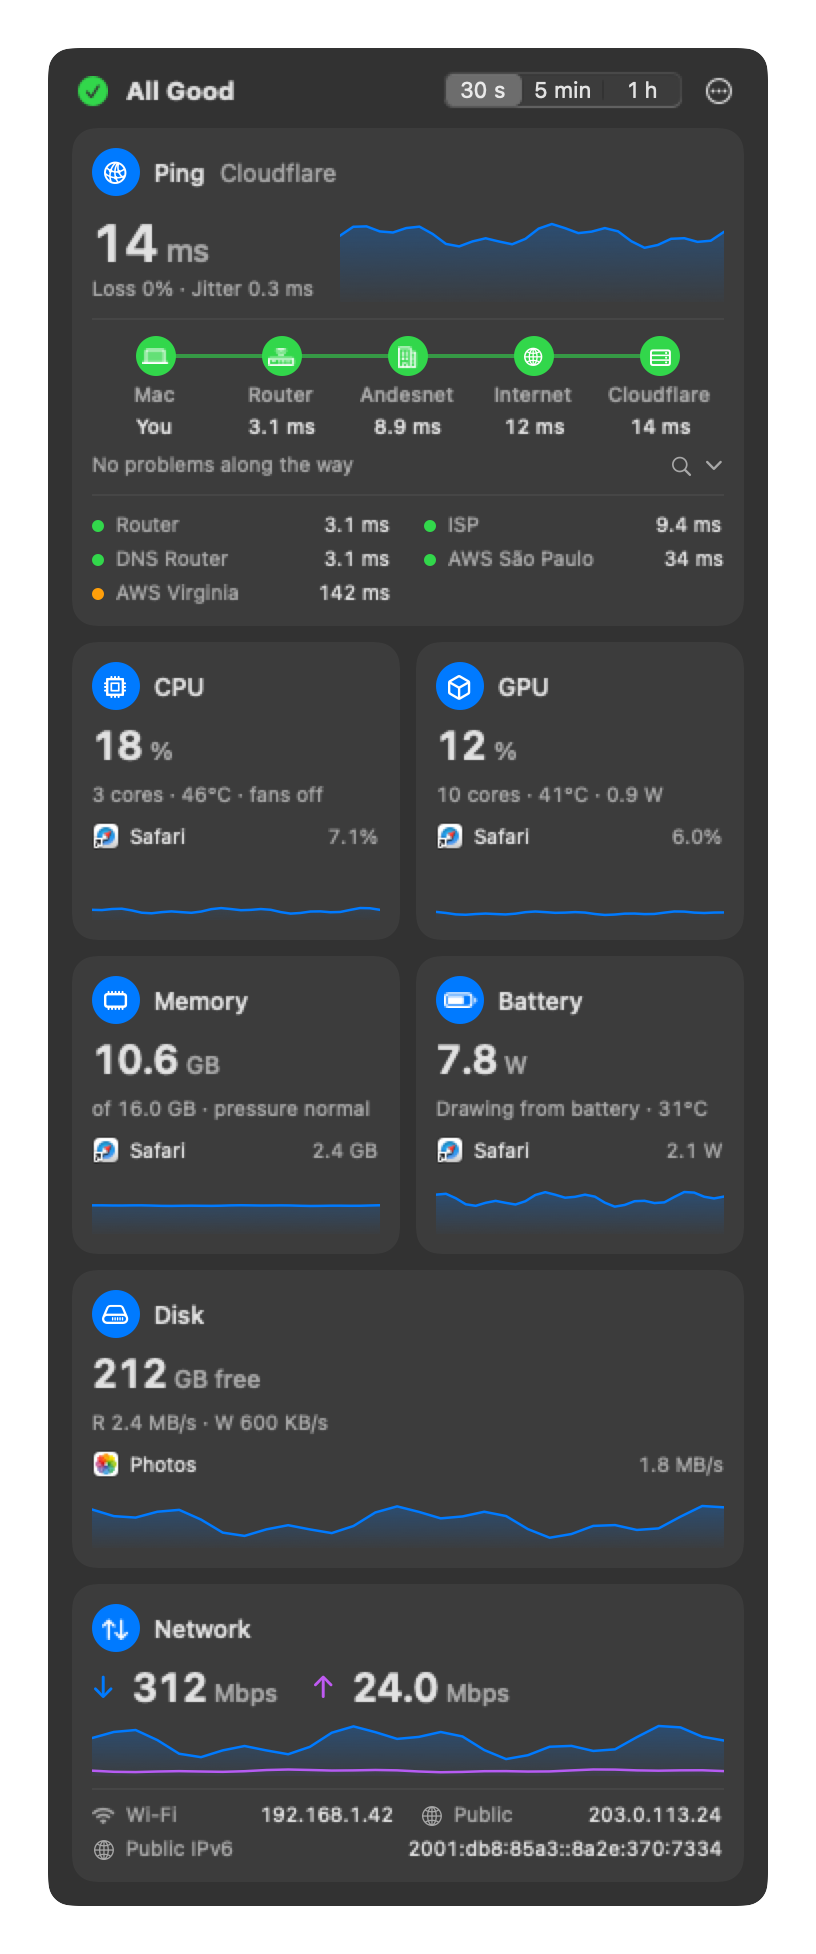
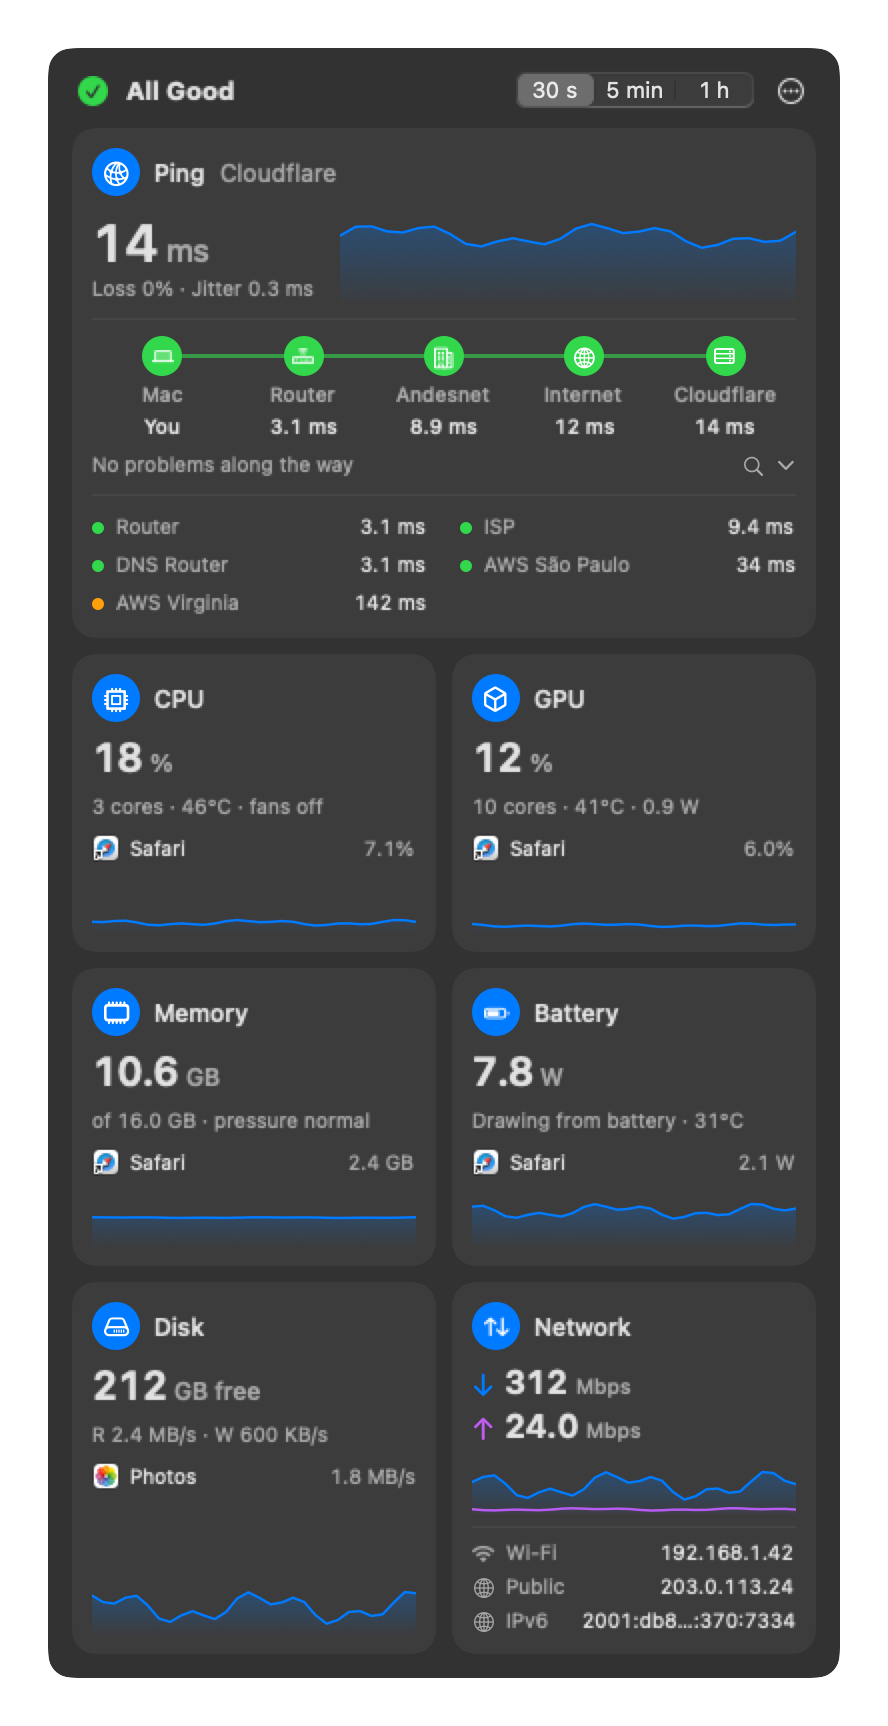
feat(popover): keep cards in place on issues and make Disk and Network half width (#58)
Cards that need attention only change color instead of moving into a "Needs Attention" group. Only Ping spans the full width; Disk and Network are half-width cards. SF Symbols in the colored circles are exactly centered. The popover is 10% wider (396 pt).

Claude-Session: https://claude.ai/code/session_01Fu5rURYvgo8L1b4zeYRJRQ

diff --git a/Sources/MonitorUI/PopoverView.swift b/Sources/MonitorUI/PopoverView.swift
@@ -2,7 +2,7 @@ import MonitorCore
 import SwiftUI
 
 /// The popover content: a header, then metric modules in the style of Control Center.
-/// Modules that need attention move to the top, in their own group.
+/// Cards keep their place when something needs attention: only their color changes, so nothing jumps around.
 public struct PopoverView: View {
     @ObservedObject private var model: PopoverModel
     @ObservedObject private var settings: AppSettings
@@ -16,18 +16,11 @@ public struct PopoverView: View {
 
     public var body: some View {
         let modules = Module.visible(in: snap, widgets: settings.widgets)
-        let problems = modules.filter { $0.level(in: snap) != .ok }
-            .sorted { $0.level(in: snap) > $1.level(in: snap) }
-        let healthy = modules.filter { $0.level(in: snap) == .ok }
+        let problemCount = modules.filter { $0.level(in: snap) != .ok }.count
 
         VStack(alignment: .leading, spacing: 10) {
-            header(problemCount: problems.count)
-            if !problems.isEmpty {
-                GroupLabel("Needs Attention")
-                grid(problems)
-                if !healthy.isEmpty { GroupLabel("Everything Else") }
-            }
-            grid(healthy)
+            header(problemCount: problemCount)
+            grid(modules)
         }
         .padding(PopoverLayout.padding)
         .frame(width: PopoverLayout.width)
@@ -89,6 +82,10 @@ public struct PopoverView: View {
             ForEach(rows.indices, id: \.self) { i in
                 HStack(alignment: .top, spacing: PopoverLayout.spacing) {
                     ForEach(rows[i], id: \.self) { module($0) }
+                    // A half-width card left alone in the last row keeps its width.
+                    if rows[i].count == 1, !rows[i][0].isWide {
+                        Color.clear.frame(maxWidth: .infinity, maxHeight: 0)
+                    }
                 }
                 .fixedSize(horizontal: false, vertical: true)
             }
@@ -251,8 +248,8 @@ public enum Module: String, CaseIterable, Codable, Sendable {
         self == .cpu ? max(snap.level(.cpu), snap.level(.thermal)) : snap.level(kind)
     }
 
-    /// Full-width modules take a row of their own.
-    var isWide: Bool { self == .ping || self == .network }
+    /// Full-width modules take a row of their own. Only Ping needs the room, for its route and extra hosts.
+    var isWide: Bool { self == .ping }
 
     /// The cards to show, in the person's order. Power appears only on Macs with a battery, GPU only on
     /// Macs whose GPU Dotwell can read (Apple silicon).
@@ -296,7 +293,7 @@ func levelColor(_ level: HealthLevel) -> Color {
 
 /// Popover metrics shared by the views and by the tests that check labels fit at a fixed size.
 enum PopoverLayout {
-    static let width: CGFloat = 360
+    static let width: CGFloat = 396
     static let padding: CGFloat = 12
     static let spacing: CGFloat = 8
     static let modulePadding: CGFloat = 10
@@ -304,19 +301,6 @@ enum PopoverLayout {
     /// Text width available inside a half-width module.
     static var halfModuleContentWidth: CGFloat {
         (width - 2 * padding - spacing) / 2 - 2 * modulePadding
-    }
-}
-
-struct GroupLabel: View {
-    var text: String
-    init(_ text: String) { self.text = text }
-
-    var body: some View {
-        Text(text)
-            .font(.subheadline.weight(.semibold))
-            .foregroundStyle(.secondary)
-            .padding(.horizontal, 4)
-            .padding(.top, 2)
     }
 }
 
@@ -341,12 +325,29 @@ struct SymbolBadge: View {
     var level: HealthLevel
 
     var body: some View {
-        Image(systemName: symbol)
-            .font(.system(size: 11, weight: .semibold))
+        CenteredSymbol(name: symbol, size: 13, weight: .semibold)
             .foregroundStyle(.white)
             .frame(width: 24, height: 24)
             .background(Circle().fill(levelColor(level)))
             .accessibilityHidden(true)
+    }
+}
+
+/// An SF Symbol centered on its drawn shape. A symbol drawn as text sits on a baseline and carries the
+/// font's side bearings, so it looks off-center inside a circle; a resizable image is laid out by its own
+/// bounds instead.
+struct CenteredSymbol: View {
+    var name: String
+    /// The longer side of the symbol, in points.
+    var size: CGFloat
+    var weight: Font.Weight
+
+    var body: some View {
+        Image(systemName: name)
+            .resizable()
+            .fontWeight(weight)
+            .scaledToFit()
+            .frame(width: size, height: size)
     }
 }
 
@@ -537,31 +538,34 @@ struct NetworkModule: View {
                 Text("Network").font(.callout.weight(.medium))
                 Spacer(minLength: 0)
             }
-            HStack(spacing: 16) {
-                Label {
-                    ValueText(reading: Format.network(snapshot.networkDownBitsPerSec, unit: unit))
-                } icon: {
-                    Image(systemName: "arrow.down").foregroundStyle(Color.accentColor)
-                }
-                Label {
-                    ValueText(reading: Format.network(snapshot.networkUpBitsPerSec, unit: unit))
-                } icon: {
-                    Image(systemName: "arrow.up").foregroundStyle(Color.purple)
-                }
-                Spacer(minLength: 0)
+            VStack(alignment: .leading, spacing: 2) {
+                rate(
+                    Format.network(snapshot.networkDownBitsPerSec, unit: unit), arrow: "arrow.down", color: .accentColor
+                )
+                rate(Format.network(snapshot.networkUpBitsPerSec, unit: unit), arrow: "arrow.up", color: .purple)
             }
-            .font(.callout.weight(.semibold))
+            Spacer(minLength: 0)
             let peak = max((down + up).max() ?? 1, 1)
             ZStack {
                 Sparkline(values: up, maxValue: peak, color: .purple)
                 Sparkline(values: down, maxValue: peak, color: .accentColor)
             }
-            .frame(height: 26)
+            .frame(height: 22)
             if let addresses {
                 Divider().opacity(0.5)
                 AddressesView(addresses: addresses)
             }
         }
         .modifier(ModuleBackground(level: .ok))
+    }
+
+    private func rate(_ reading: Reading, arrow: String, color: Color) -> some View {
+        HStack(alignment: .firstTextBaseline, spacing: 4) {
+            Image(systemName: arrow)
+                .font(.system(size: 12, weight: .semibold))
+                .foregroundStyle(color)
+                .accessibilityHidden(true)
+            ValueText(reading: reading, size: 17)
+        }
     }
 }

diff --git a/Tests/MonitorUITests/FormatTests.swift b/Tests/MonitorUITests/FormatTests.swift
@@ -166,4 +166,24 @@ final class FormatTests: XCTestCase {
                 width, available, "“\(caption)” is \(width) pt wide, \(available) pt available")
         }
     }
+
+    /// The Network card is half width: the widest rate, with its arrow, must fit on one line.
+    func testWorstCaseNetworkRatesFitAHalfWidthModule() {
+        let size: CGFloat = 17  // NetworkModule's rate size
+        let valueFont = NSFont.monospacedDigitSystemFont(ofSize: size, weight: .semibold)
+        let unitFont = NSFont.systemFont(ofSize: size * 0.6, weight: .medium)
+        let arrowAndSpacing: CGFloat = 12 + 4 + 3
+        let available = PopoverLayout.halfModuleContentWidth
+        let readings = [
+            Format.network(998_000_000_000, unit: .bits), Format.network(998_000_000_000, unit: .bytes),
+            Format.network(99_900_000, unit: .bits), Format.network(99_900_000 * 8, unit: .bytes),
+        ]
+        for reading in readings {
+            let width =
+                (reading.value as NSString).size(withAttributes: [.font: valueFont]).width
+                + (reading.unit as NSString).size(withAttributes: [.font: unitFont]).width + arrowAndSpacing
+            XCTAssertLessThanOrEqual(
+                width, available, "“\(reading.text)” is \(width) pt wide, \(available) pt available")
+        }
+    }
 }

diff --git a/Sources/MonitorUI/AddressesView.swift b/Sources/MonitorUI/AddressesView.swift
@@ -8,16 +8,14 @@ struct AddressesView: View {
 
     var body: some View {
         VStack(alignment: .leading, spacing: 4) {
-            HStack(spacing: 12) {
-                AddressRow(
-                    symbol: localSymbol, label: localLabel, value: addresses.local?.ipv4,
-                    placeholder: "Not connected")
-                AddressRow(
-                    symbol: "globe", label: "Public", value: publicIPv4,
-                    placeholder: publicPlaceholder)
-            }
+            AddressRow(
+                symbol: localSymbol, label: localLabel, value: addresses.local?.ipv4,
+                placeholder: "Not connected")
+            AddressRow(
+                symbol: "globe", label: "Public", value: publicIPv4,
+                placeholder: publicPlaceholder)
             if let ipv6 = addresses.publicAddresses?.ipv6 {
-                AddressRow(symbol: "globe", label: "Public IPv6", value: ipv6, placeholder: "")
+                AddressRow(symbol: "globe", label: "IPv6", value: ipv6, placeholder: "")
             }
         }
         .font(.caption)

diff --git a/Sources/MonitorUI/NetworkPathView.swift b/Sources/MonitorUI/NetworkPathView.swift
@@ -52,8 +52,7 @@ struct NetworkPathView: View {
                     Rectangle().fill(outgoing)
                 }
                 .frame(height: 2)
-                Image(systemName: Self.symbol(segment.stage))
-                    .font(.system(size: 9, weight: .semibold))
+                CenteredSymbol(name: Self.symbol(segment.stage), size: 11, weight: .semibold)
                     .foregroundStyle(.white)
                     .frame(width: 20, height: 20)
                     .background(Circle().fill(dotColor(segment.level)))

diff --git a/Tests/MonitorUITests/PreviewRenderTests.swift b/Tests/MonitorUITests/PreviewRenderTests.swift
@@ -57,7 +57,7 @@ final class PreviewRenderTests: XCTestCase {
             let issues = SampleData.issues
             let module = PingModule(snapshot: issues, level: issues.level(.ping), pathExpanded: true)
                 .padding(12)
-                .frame(width: 360)
+                .frame(width: PopoverLayout.width)
             let data = try render(module, appearance: appearance)
             try data.write(to: url.appendingPathComponent("ping-path-\(mode).png"))
         }

diff --git a/README.md b/README.md
@@ -34,7 +34,8 @@ Built for one thing above all: **using as few resources as possible** while it r
 - **Heat warnings**: tells you when macOS slows the Mac down to cool it, and shows the CPU temperature.
 - **What's using it**: CPU, GPU, Memory, Disk and Battery each show the app using the most of it, sampled only while
   the popover is open. Click it to see the top five with their process IDs, and click one to copy its PID; right-click one to quit it.
-- **Problems on top**: anything that needs attention is listed first. No scrolling.
+- **Problems stand out**: a card that needs attention turns yellow or red in place, so nothing moves around. No
+  scrolling.
 - **Yours to arrange**: a Settings window laid out like System Settings, with one page per card: show, hide
   and reorder cards, choose ping hosts (Cloudflare, Google or Quad9, and AWS, Google Cloud or Azure regions),
   set each card's alert, and choose how often readings are taken with the popover open and closed.

diff --git a/CHANGELOG.md b/CHANGELOG.md
@@ -6,9 +6,17 @@ All notable changes to this project are documented here. The format is based on
 
 ## [Unreleased]
 
+### Changed
+- Cards no longer move when something needs attention: the "Needs Attention" group is gone, and a card that
+  has a problem just turns yellow or red where it is.
+- Disk and Network are now half-width cards like CPU and Memory, so the popover is shorter. Only Ping still
+  spans the full width. A card left alone in the last row keeps its half width.
+- The popover is 10% wider (396 pt), so the half-width cards have more room.
+
 ### Fixed
 - Charts no longer jump sideways while their time range is still filling (for example the first 30 s after
   opening the popover or switching ranges): the line now grows in from the right at its final spacing.
+- The icons in the cards' colored circles, and in the route's dots under Ping, are now centered exactly.
 
 ## [0.9.0] - 2026-11-26
 
